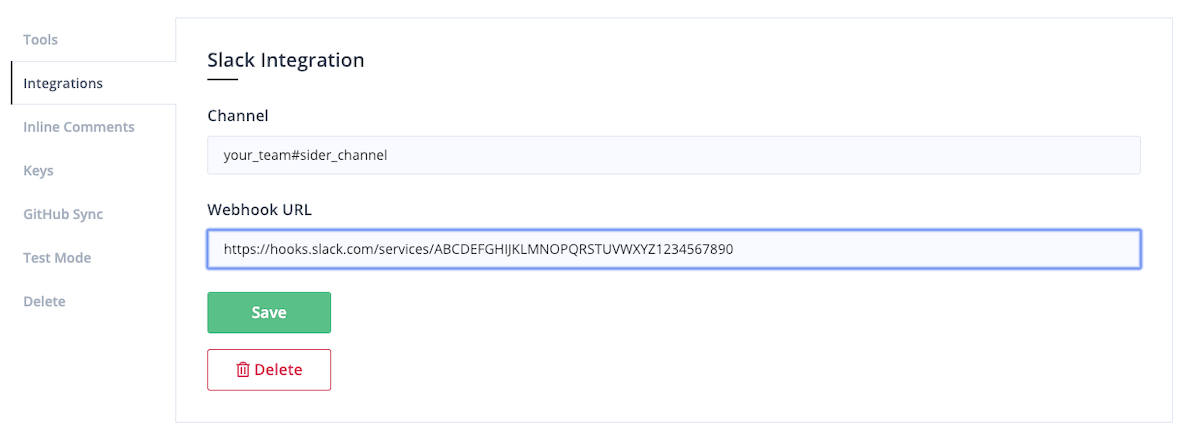
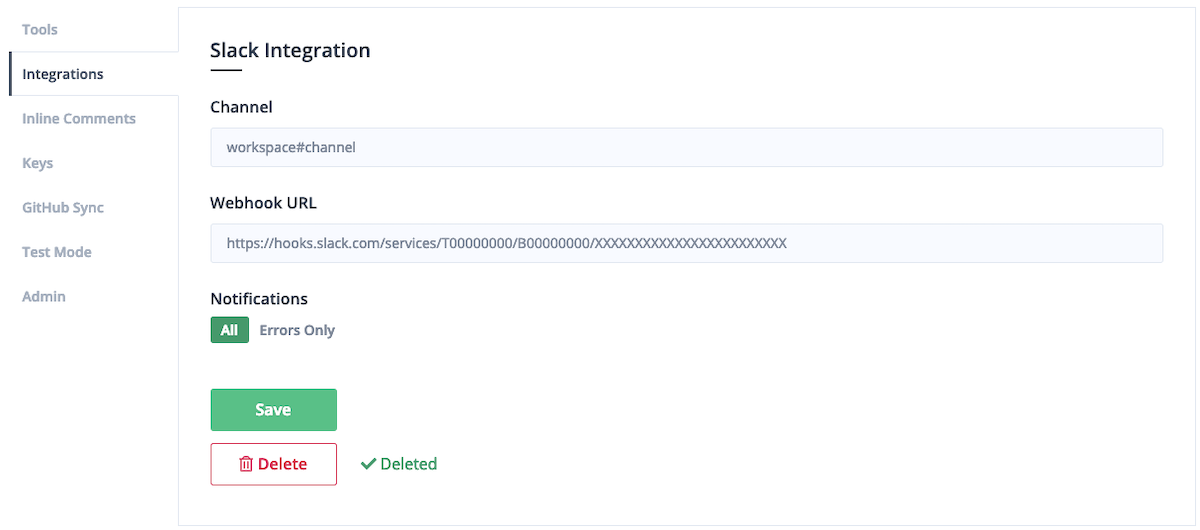
Update docs of Slack integration

diff --git a/docs/getting-started/repository-settings.md b/docs/getting-started/repository-settings.md
@@ -23,6 +23,8 @@ This section allows you to enable the analysis tool you would like to use. Tools
 
 In this section, you can enable Slack notifications from Sider. Enter `team#channel` in the Name field and enter your Slack webhook url in the `URL` field.
 
+In addition, if you wish not to receive notifications for analyses with no issue, choose `Errors Only`. Then, Sider will notify analysis results to your Slack channel only when it detects issues.
+
 ## Inline Comments
 
 See [Inline Comments](../advanced-settings/inline-comments.md).
